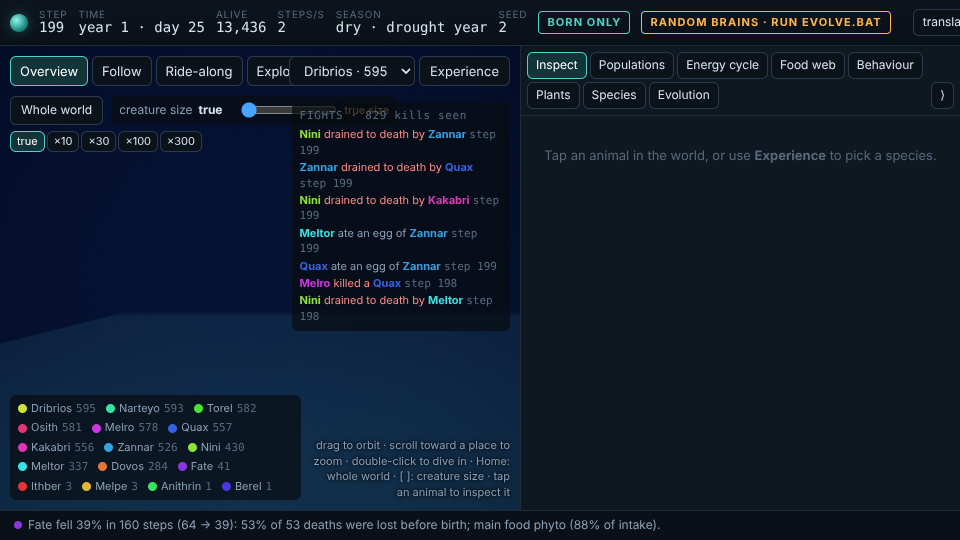
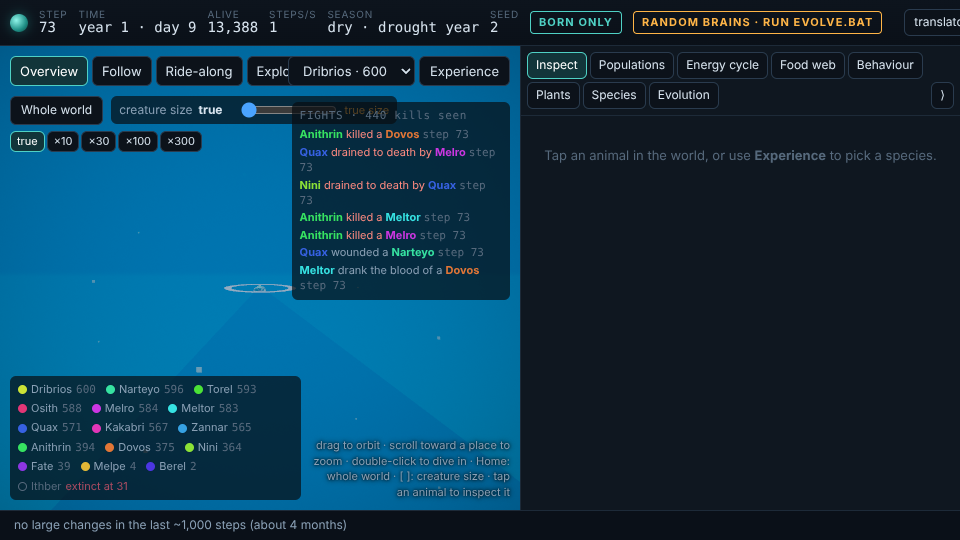
Ocean phase 2: DESIGN 10.7 (reefs, fliers, clarity-based haze, Explore diving), CONSTANTS regenerated, ICD depth plane, frames docs/art/ocean/ocean_overview.png and ocean_follow.png
Claude-Session: https://claude.ai/code/session_015hp2d5xHrjrAA1WLN1R2tJ

diff --git a/docs/DESIGN.md b/docs/DESIGN.md
@@ -2412,16 +2412,33 @@ StepLengthTests, ClimateTests); everything below is read only where `World.Ocean
   water (World.DeepN), which exchanges with the mixed layer across the thermocline at K_Z (3e-5 m2/s, Bryan & Lewis
   1979), more under a surface as cold as the deep (K_Z_CONV: winter convection). In: SEA_N_IN (fixation and deposition,
   0.5 gN/m2/yr) instead of weathering; out: deep water above C_DEEP_MAX (45 umol/L). The book closes (OceanTests).
+- **Reefs** (phase 2). Cyanobacteria on a lit floor fix N_FIX_REEF (10 gN/m2/yr in full light; reef flats 2-20,
+  Larkum et al. 1988; Charpy-Roubaud et al. 2001) x the light on the bottom x the warmth, repressed by the nitrate there;
+  an input of the book. Reef flats (REEF_FLUSH_D, 10 m or shallower) are renewed by the open sea's surface water in
+  REEF_RES (half a day; Lowe & Falter 2015), what they gain the open water loses (Ocean.Renew), and exchange with their
+  neighbours at REEF_FLUSH. The sea's algal detritus rots at ROT_DETRITUS_SEA (0.05 /day; Enriquez, Duarte & Sand-Jensen 1993).
 - **Life.** Every ancestor is a water ancestor (EvoSettings.AllWater). Animals use the existing depth physics
-  (Respiration: depth preference, breath-hold dives, gills against the sea's oxygen).
-- **Measured** (OceanTests, the 256 map, seed 3, no animals): open water ~74 gC/m2/yr (Field et al. 1998: 50-150),
-  slopes ~120, banks ~170 (coastal and shelf seas 200-500), reef flats ~65. The reef flats are far below the
-  1,000-2,000 of kelp and reef flats (Mann 1973; Hatcher 1988): their benthic algae cannot persist on the ambient
-  nitrate (~0.05 umol/L), and the benthic nitrogen fixation and current-driven mass transfer that feed real reefs
-  (Atkinson & Bilger 1992) are not modelled (phase 2). Founding on seeds 1-5: all 16 water ancestors viable on each.
-- **Console.** `meta.ocean`; the camera may go under the surface (the seabed is its floor), the haze, the clear
-  colour and the light follow the depth (red absorbed first), the surface is drawn from below, and the opening view
-  is under the surface at the densest group's depth. Animals are drawn at their simulated depth (AGENTS format 7).
+  (Respiration: depth preference, breath-hold dives, gills against the sea's oxygen). A flier eats landed (Resolve), so
+  at sea the founding counts a flier's food only where it can land, swimming or wading (World.GroundAllows); a flier
+  over water it cannot land in flies at its cost (Resolve.MoveCost, no landing duty) or, when it cannot, is in the water
+  and swims, paddles or drowns by its organs. (Over lakes in a world with land the same founding rule is not applied:
+  it would move the pinned default world.)
+- **Measured** (OceanTests, the 256 map, seed 3, no animals): open water ~115 gC/m2/yr (Field et al. 1998: 50-150),
+  slopes ~220, banks ~400-440 (coastal and shelf seas 200-500), reef flats ~105 (phase 1: 74, 120, 170, 65). The reef
+  flats are still far below the 1,000-2,000 of kelp and reef flats (Mann 1973; Hatcher 1988): their algae hold ~0.12
+  of a unit on ~0.23 umol/L of nitrate, limited by what the flat fixes and recycles, and at a full unit (WATER_KG_M2,
+  0.05 kg/m2, below a turf's or a kelp bed's 0.2-1 kg) they could make at most ~820 gC/m2/yr. Founding on seeds 1-5:
+  all 16 water ancestors viable on each.
+- **Console.** `meta.ocean`; the camera may go under the surface (the seabed is its floor). The haze is the water's
+  clarity where the camera is: beam attenuation c = 0.05 + 0.41 Chl^0.795 /m (Loisel & Morel 1998), Chl from the
+  plankton pool over the mixed layer (C:Chl 100; Geider 1987), contrast falling by e per 1/c and nothing seen beyond
+  4.8 / c (Davies-Colley 1988). The sim's plankton makes that a few metres (it holds 0.2-0.6 of a unit, 5-14 gC/m2,
+  a bloom's standing stock), so the overview frames one swimmer of the densest group within a third of the visibility
+  and carries the view with it, and the follow camera keeps within 0.4 of it. Bodies under water get a rim light; the
+  seabed is sand ripples under algal turf from the benthic pool, with caustics; plankton motes drift round the camera;
+  the surface is drawn from below. Animals are drawn at their simulated depth (AGENTS format 7); the WORLD frame carries
+  depth in decimetres after the rivers (past the u8 plane's 254 m). Explore: the person dives and swims in 3D (Space
+  up, C down, forward along the look); the server still senses it at the surface.
 
 ## 11. Step contract (NR-108)
 

diff --git a/docs/CONSTANTS.md b/docs/CONSTANTS.md
@@ -958,6 +958,11 @@ Origin codes: **V1** taken from Neuroreef v1; **ECO** ecological rule or exponen
 | C_DEEP0 | 20 | umol/L | nitrate concentration of the deep water an ocean world starts with | ECO: 15-25 umol/L at 200-1,000 m in the Atlantic, 30-45 in the Pacific (Garcia et al. 2010, World Ocean Atlas) |
 | C_DEEP_MAX | 45 | umol/L | the most nitrate the deep water holds: above it, denitrification and burial in the sediment take it out (an explicit output, Nutrients.Book) | ECO: the oldest deep water, in the North Pacific, holds ~45 umol/L (Garcia et al. 2010) |
 | SEA_N_IN | 0.5 | gN/m2/yr | nitrogen the sea gains a year: fixation by plankton (Trichodesmium and others) and deposition from the air (replaces WEATHER at sea) | ECO: marine N2 fixation ~140 TgN/yr and deposition ~40-70 TgN/yr over 3.6e14 m2 (Gruber & Galloway 2008) |
+| N_FIX_REEF | 10 | gN/m2/yr | nitrogen fixed a year by cyanobacteria (mats, turfs, and those living in corals and sediments) on a sea floor in full light; x the light reaching the bottom (Ocean.BottomLight), the warmth of the water (as the algae's growth) and the share of nitrate the water lacks (fixation is repressed where nitrate is plentiful) | ECO: reef flats and lagoon floors fix 2-20 gN/m2/yr, the highest marine rates (Larkum et al. 1988; Charpy-Roubaud et al. 2001; Cardini et al. 2014) |
+| ROT_DETRITUS_SEA | 0.0060875 | /step | rot of the sea's detritus (dead algae and plankton, at T_REF; Q10 as every rot): marine algal detritus, rich in nitrogen, decays far faster than the litter of lakes' shores that ROT_DETRITUS stands for | ECO: decomposition of microalgal and macroalgal detritus 0.02-0.1 /day, seagrass 0.005-0.02 (Enriquez, Duarte & Sand-Jensen 1993); 0.05 /day over STEPS_PER_DAY (ROT_DETRITUS is 0.012 /day) |
+| REEF_RES | 0.5 | days | time in which the open sea's surface water renews the water over a reef flat (REEF_FLUSH_D or shallower), carried on and off it by waves and tides (Ocean.Renew) | ECO: reef-flat water residence times of hours to about a day (Lowe & Falter 2015; Hench et al. 2008); atoll lagoons days to months (Andrefouet et al. 2001) |
+| REEF_FLUSH_D | 10 | m | water at most this deep (a reef flat) is flushed by the waves and tides through its neighbours, its plankton and nutrient exchanged at REEF_FLUSH a neighbour a step instead of the open water's N_DIFF / 4 | ECO: wave- and tide-driven currents of 0.1-0.5 m/s cross reef flats, renewing their water in hours (Symonds, Black & Young 1995; Lowe et al. 2009); the open sea's exchange between cells is N_DIFF |
+| REEF_FLUSH | 0.2 | /step | share of the difference in concentration a reef flat exchanges with each neighbour a step (REEF_FLUSH_D): at 0.2 m/s its water crosses a field cell in ~80 s and a step is ~3 h, so it is renewed many times; this is the most a step's exchange with four neighbours can be and stay stable | HT: the physical rate is far faster than a step; capped for the explicit exchange |
 
 ## 40. Organisms
 
